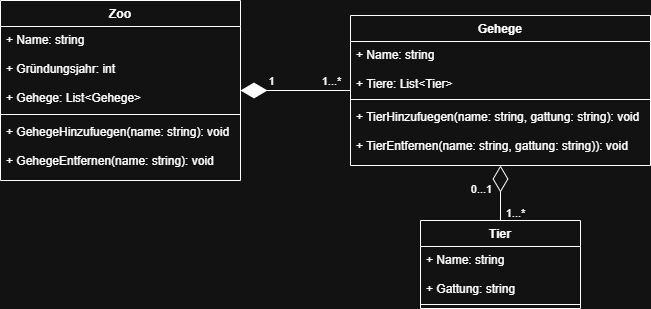
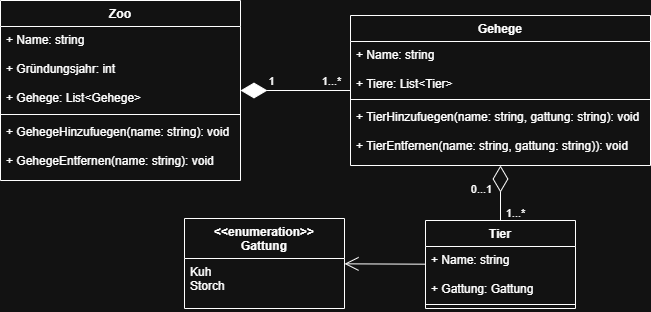
Zoo, Teil 2 (Tiere): Die Enumeration Gattung wurde erstellt und in der Tier-Klasse als Datentyp, anstelle von string verwendet. In der Gehege Klasse und der Start Methode wurden der Datentyp für die Gattung und der Gattungsparameter angepasst. Im UML-Diagramm wurde die Enummeration Gattung ergänzt u

diff --git a/src/SabrinaFeurstein/aufgaben/Zoo/Teil 2 (Tiere)/Gehege.cs b/src/SabrinaFeurstein/aufgaben/Zoo/Teil 2 (Tiere)/Gehege.cs
@@ -5,16 +5,16 @@ namespace Appdevhb25.SabrinaFeurstein.aufgaben.zoo.teil2
         public string Name { get; private set; } = name;
         public List<Tier> Tiere { get; private set; } = new List<Tier>();
 
-        public void TierHinzufuegen(string name, string gattung)
+        public void TierHinzufuegen(string name, Gattung gattung)
         {
             Tiere.Add(new Tier(name, gattung));
         }
-        public void TierEntfernen(string name, string gattung)
+        public void TierEntfernen(string name)
         {
             bool tierEntfernt = false;
             foreach (Tier tier in Tiere)
             {
-                if (tier.Name.Contains(name, StringComparison.OrdinalIgnoreCase) && tier.Gattung.Contains(gattung, StringComparison.OrdinalIgnoreCase))
+                if (tier.Name.Contains(name, StringComparison.OrdinalIgnoreCase))
                 {
                     Tiere.Remove(tier);
                     tierEntfernt = true;

diff --git a/src/SabrinaFeurstein/aufgaben/Zoo/Teil 2 (Tiere)/Verwaltung.cs b/src/SabrinaFeurstein/aufgaben/Zoo/Teil 2 (Tiere)/Verwaltung.cs
@@ -12,11 +12,11 @@ namespace Appdevhb25.SabrinaFeurstein.aufgaben.zoo.teil2
             zoos[0].GehegeHinzufuegen("Dschungel");
             zoos[0].GehegeEntfernen("dschungel");
 
-            zoos[0].Gehege[0].TierHinzufuegen("Blümchen", "Kuh");
-            zoos[0].Gehege[0].TierHinzufuegen("Gerda", "Kuh");
-            zoos[0].Gehege[1].TierHinzufuegen("Hugo", "Storch");
-            zoos[0].Gehege[1].TierHinzufuegen("Bryan", "Storch");
-            zoos[0].Gehege[1].TierEntfernen("Bryan", "storch");
+            zoos[0].Gehege[0].TierHinzufuegen("Blümchen", Gattung.Kuh);
+            zoos[0].Gehege[0].TierHinzufuegen("Gerda", Gattung.Kuh);
+            zoos[0].Gehege[1].TierHinzufuegen("Hugo", Gattung.Storch);
+            zoos[0].Gehege[1].TierHinzufuegen("Bryan", Gattung.Storch);
+            zoos[0].Gehege[1].TierEntfernen("Bryan");
 
             foreach (Zoo zoo in zoos)
             {

diff --git a/src/SabrinaFeurstein/aufgaben/Zoo/Teil 2 (Tiere)/Tier.cs b/src/SabrinaFeurstein/aufgaben/Zoo/Teil 2 (Tiere)/Tier.cs
@@ -1,9 +1,9 @@
 namespace Appdevhb25.SabrinaFeurstein.aufgaben.zoo.teil2
 {
-    public class Tier(string name, string gattung)
+    public class Tier(string name, Gattung gattung)
     {
         public string Name { get; private set; } = name;
-        public string Gattung { get; private init; } = gattung;
+        public Gattung Gattung { get; private init; } = gattung;
 
         public override string ToString()
         {

diff --git a/src/SabrinaFeurstein/aufgaben/Zoo/Teil 2 (Tiere)/Gattung.cs b/src/SabrinaFeurstein/aufgaben/Zoo/Teil 2 (Tiere)/Gattung.cs
@@ -1,0 +1,8 @@
+namespace Appdevhb25.SabrinaFeurstein.aufgaben.zoo.teil2
+{
+    public enum Gattung
+    {
+        Kuh,
+        Storch
+    }
+}
